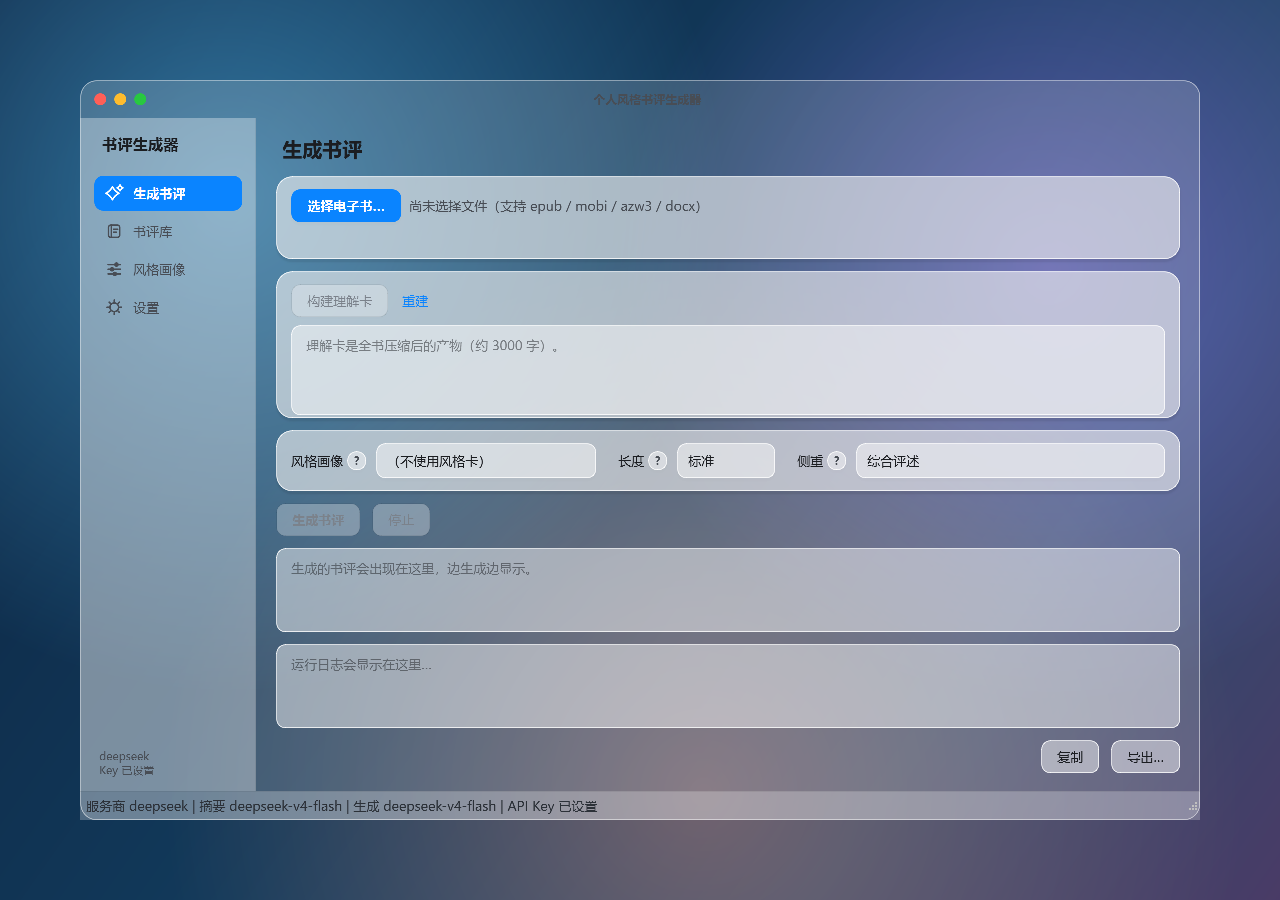
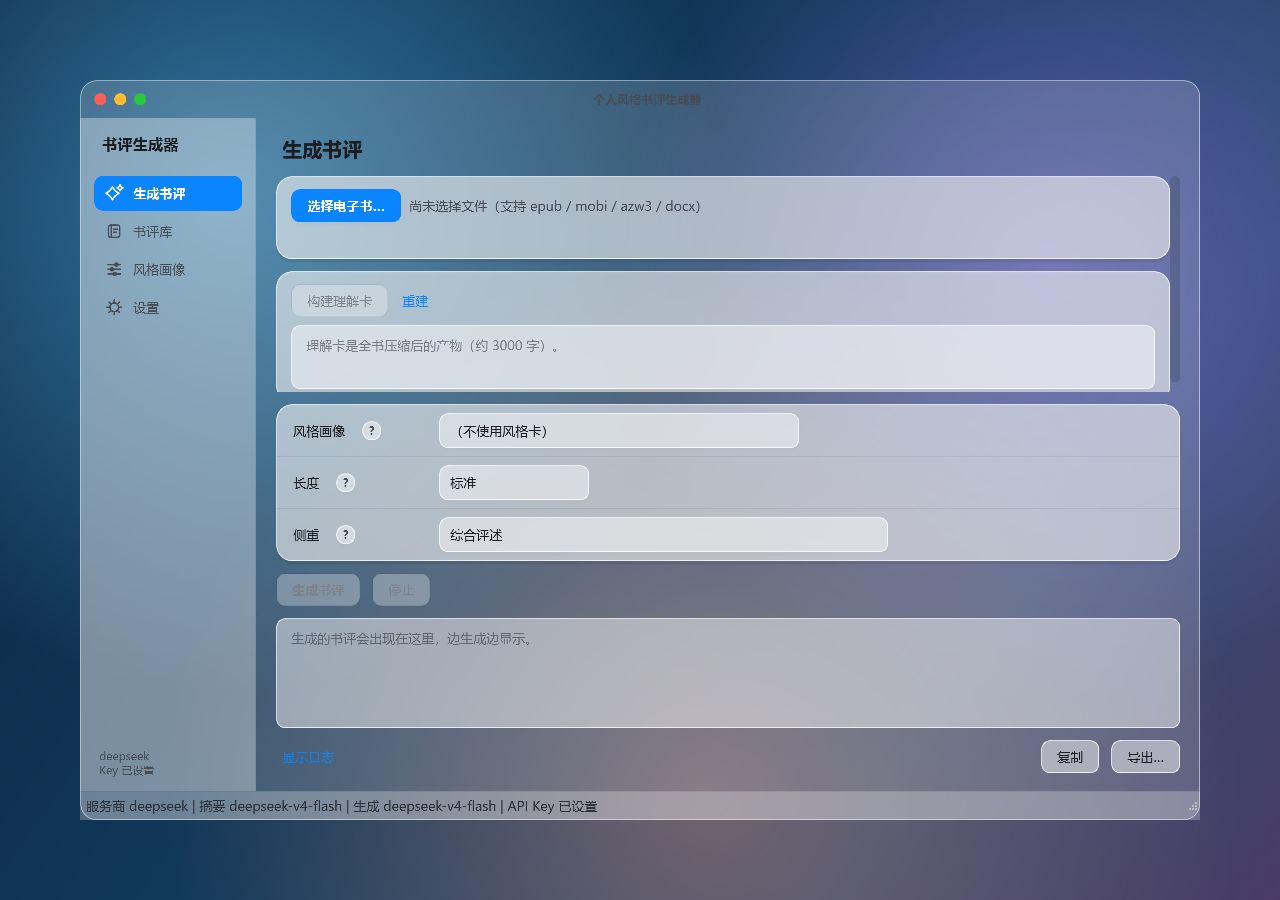
feat: 优化生成页面布局适配不同窗口尺寸
调整窗口大小与最小尺寸，新增滚动区控制可选内容，重构选项为紧凑设置行，默认收起运行日志

Changed region(s): [[0.2188, 0.1867, 0.9375, 0.7467]]

diff --git a/bookreview/ui/pages/generate_page.py b/bookreview/ui/pages/generate_page.py
@@ -8,7 +8,7 @@ from PySide6.QtCore import Qt
 from PySide6.QtGui import QTextCursor
 from PySide6.QtWidgets import (
     QComboBox, QFileDialog, QFrame, QHBoxLayout, QLabel, QMessageBox,
-    QProgressBar, QPushButton, QTextEdit, QVBoxLayout, QWidget,
+    QProgressBar, QPushButton, QScrollArea, QTextEdit, QVBoxLayout, QWidget,
 )
 
 from ...core.models import Book, BookDigest
@@ -17,6 +17,7 @@ from ...core.pipeline import Pipeline
 from ...core.prompts import FOCUS_PRESETS, LENGTH_PRESETS
 from ..workers import DigestWorker, GenerateWorker, ParseWorker
 from ..parameter_help import ParameterHelp
+from ..widgets import SettingCard, SettingRow
 
 # 只列出解析器真正支持的扩展名：列了 .txt/.md 却解析不了，
 # 用户选中后会直接撞上「不支持的格式」。
@@ -52,6 +53,17 @@ class GeneratePage(QWidget):
         title.setObjectName("title")
         root.addWidget(title)
 
+        # 控制区（选书 / 理解卡 / 输出设置）放滚动区：
+        # 窗口不高时宁可滚动，也不要把下拉框压扁。
+        scroll = QScrollArea()
+        scroll.setWidgetResizable(True)
+        scroll.setFrameShape(QScrollArea.NoFrame)
+        scroll.setHorizontalScrollBarPolicy(Qt.ScrollBarAlwaysOff)
+        body = QWidget()
+        body_lay = QVBoxLayout(body)
+        body_lay.setContentsMargins(0, 0, 0, 0)
+        body_lay.setSpacing(12)
+
         # --- 选书 ---
         card = QFrame()
         card.setObjectName("card")
@@ -73,7 +85,7 @@ class GeneratePage(QWidget):
         self.lbl_book.setObjectName("muted")
         self.lbl_book.setWordWrap(True)
         lay.addWidget(self.lbl_book)
-        root.addWidget(card)
+        body_lay.addWidget(card)
 
         # --- 理解卡 ---
         dcard = QFrame()
@@ -109,40 +121,46 @@ class GeneratePage(QWidget):
             "理解卡是全书压缩后的产物（约 3000 字）。\n"
             "同一本书只会构建一次，之后直接命中缓存，不重复消耗 token。"
         )
-        self.txt_digest.setMinimumHeight(90)
-        self.txt_digest.setMaximumHeight(150)
+        self.txt_digest.setMinimumHeight(64)
+        self.txt_digest.setMaximumHeight(104)
         dlay.addWidget(self.txt_digest)
-        root.addWidget(dcard)
+        body_lay.addWidget(dcard)
+        body_lay.addStretch(1)
+        scroll.setWidget(body)
+        # 只让「选书 + 理解卡」这两张卡滚动；下面的选项、输出区始终可见。
+        # 滚动区多拿一些伸缩权重，默认尺寸下两张卡正好完整显示。
+        root.addWidget(scroll, 3)
 
-        # --- 选项 ---
-        ocard = QFrame()
-        ocard.setObjectName("card")
-        olay = QVBoxLayout(ocard)
-        olay.setContentsMargins(14, 12, 14, 12)
-        olay.setSpacing(10)
-
-        o_row = QHBoxLayout()
-        o_row.addWidget(self.help.label("风格画像", "选择从你的书评样本中学习得到的写作风格卡。它会控制自称、语气、句式、结构和剧透习惯；不选择则使用默认书评风格。"))
+        # --- 输出设置：一行一项，与设置页同一套版式 ---
         self.cmb_profile = QComboBox()
-        self.cmb_profile.setMinimumWidth(220)
-        o_row.addWidget(self.cmb_profile, 1)
-
-        o_row.addSpacing(12)
-        o_row.addWidget(self.help.label("长度", "短评：约 200-300 字，只讲核心判断。\n标准：约 800-1200 字，包含完整论证。\n深度长评：约 2000-3000 字，展开人物、结构和主题。"))
+        self.cmb_profile.setMinimumWidth(360)
         self.cmb_length = QComboBox()
+        self.cmb_length.setMinimumWidth(150)
         for k, v in LENGTH_PRESETS.items():
             self.cmb_length.addItem(v["label"], k)
         self.cmb_length.setCurrentIndex(1)
-        o_row.addWidget(self.cmb_length)
-
-        o_row.addSpacing(12)
-        o_row.addWidget(self.help.label("侧重", "综合：平衡情节、人物、文笔和主题。\n情节：重点分析结构、悬念和节奏。\n人物：重点分析动机和人物弧光。\n文笔：重点分析语言、意象和对话。\n主题：重点分析核心命题与现实呼应。"))
         self.cmb_focus = QComboBox()
+        self.cmb_focus.setMinimumWidth(280)
         for k, v in FOCUS_PRESETS.items():
             self.cmb_focus.addItem(v.split("，")[0], k)
-        o_row.addWidget(self.cmb_focus, 1)
-        olay.addLayout(o_row)
-        root.addWidget(ocard)
+
+        options = SettingCard()
+        options.add_row(SettingRow(
+            "风格画像", self.cmb_profile,
+            help_text="选择从你的书评样本中学习得到的写作风格卡。它会控制自称、语气、句式、结构和剧透习惯；不选择则使用默认书评风格。",
+            help_provider=self.help, dense=True,
+        ))
+        options.add_row(SettingRow(
+            "长度", self.cmb_length,
+            help_text="短评：约 200-300 字，只讲核心判断。\n标准：约 800-1200 字，包含完整论证。\n深度长评：约 2000-3000 字，展开人物、结构和主题。",
+            help_provider=self.help, dense=True,
+        ))
+        options.add_row(SettingRow(
+            "侧重", self.cmb_focus,
+            help_text="综合：平衡情节、人物、文笔和主题。\n情节：重点分析结构、悬念和节奏。\n人物：重点分析动机和人物弧光。\n文笔：重点分析语言、意象和对话。\n主题：重点分析核心命题与现实呼应。",
+            help_provider=self.help, dense=True, last=True,
+        ))
+        root.addWidget(options)
 
         # --- 生成 ---
         grow = QHBoxLayout()
@@ -161,26 +179,38 @@ class GeneratePage(QWidget):
         root.addLayout(grow)
 
         self.txt_out = QTextEdit()
+        self.txt_out.setMinimumHeight(110)
         self.txt_out.setPlaceholderText("生成的书评会出现在这里，边生成边显示。")
         root.addWidget(self.txt_out, 1)
 
+        # 运行日志默认收起：它只占地方，需要排查时再展开
         self.txt_log = QTextEdit()
         self.txt_log.setReadOnly(True)
-        self.txt_log.setMaximumHeight(110)
+        self.txt_log.setMaximumHeight(88)
         self.txt_log.setPlaceholderText("运行日志会显示在这里…")
+        self.txt_log.setVisible(False)
         root.addWidget(self.txt_log)
 
         erow = QHBoxLayout()
         self.lbl_count = QLabel("")
         self.lbl_count.setObjectName("muted")
+        self.btn_log = QPushButton("显示日志")
+        self.btn_log.setObjectName("link")
+        self.btn_log.setCheckable(True)
+        self.btn_log.toggled.connect(self._toggle_log)
         btn_copy = QPushButton("复制")
         btn_copy.clicked.connect(self._copy)
         btn_save = QPushButton("导出…")
         btn_save.clicked.connect(self._export)
+        erow.addWidget(self.btn_log, 0, Qt.AlignVCenter)
         erow.addWidget(self.lbl_count, 1)
         erow.addWidget(btn_copy)
         erow.addWidget(btn_save)
         root.addLayout(erow)
+
+    def _toggle_log(self, shown: bool) -> None:
+        self.txt_log.setVisible(shown)
+        self.btn_log.setText("隐藏日志" if shown else "显示日志")
 
     # ---------- 数据 ----------
     def _refresh_profiles(self) -> None:

diff --git a/bookreview/ui/widgets.py b/bookreview/ui/widgets.py
@@ -26,7 +26,7 @@ class SettingRow(QWidget):
     def __init__(self, title: str, control: QWidget, *, hint: str = "",
                  help_text: str = "", help_provider=None, last: bool = False,
                  align: str = "left", label_width: int = LABEL_WIDTH,
-                 parent: QWidget | None = None):
+                 dense: bool = False, parent: QWidget | None = None):
         super().__init__(parent)
         self._title = title
 
@@ -34,8 +34,9 @@ class SettingRow(QWidget):
         outer.setContentsMargins(0, 0, 0, 0)
         outer.setSpacing(0)
 
+        pad_y = 8 if dense else 11
         content = QHBoxLayout()
-        content.setContentsMargins(16, 11, 16, 11)
+        content.setContentsMargins(16, pad_y, 16, pad_y)
         content.setSpacing(14)
 
         left = QVBoxLayout()

diff --git a/bookreview/ui/main_window.py b/bookreview/ui/main_window.py
@@ -33,8 +33,8 @@ class MainWindow(QMainWindow):
         super().__init__()
         self.pipe = pipeline or Pipeline()
         self.setWindowTitle("个人风格书评生成器")
-        self.resize(1120, 740)
-        self.setMinimumSize(920, 600)
+        self.resize(1140, 800)
+        self.setMinimumSize(940, 660)
 
         self.theme: Theme = LIGHT
         self._glass_ok = False
